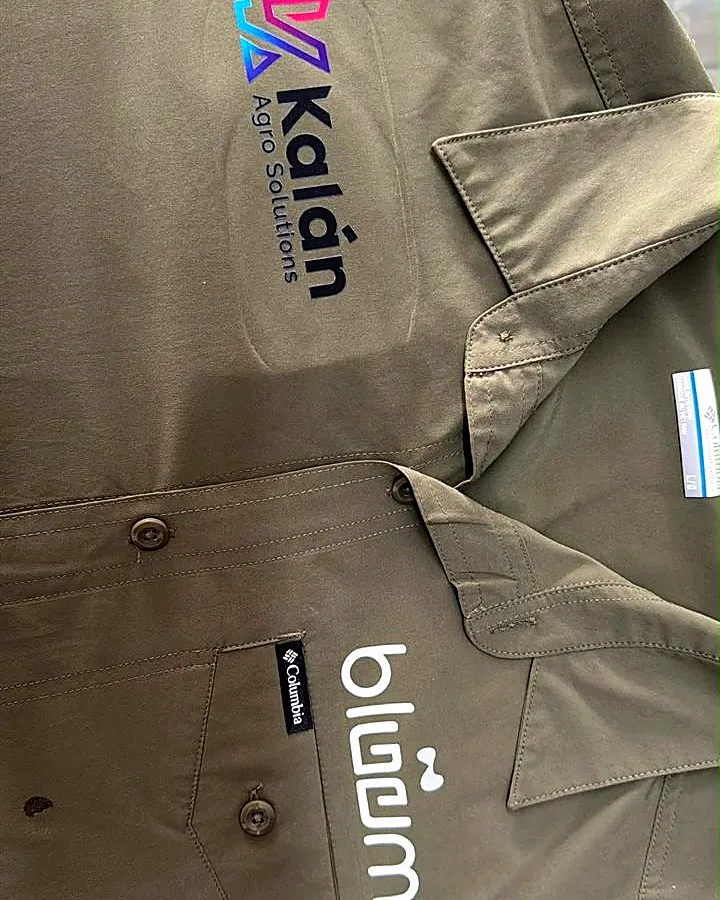
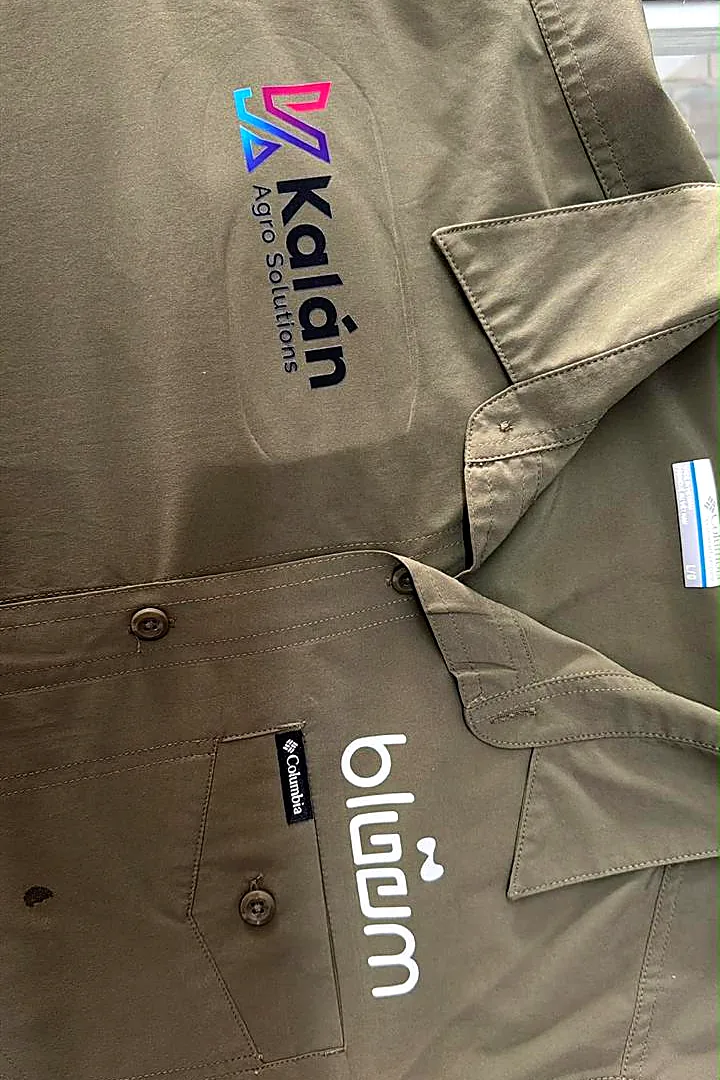
Trabajos: fotos casi completas en mosaico y las 15 publicadas
Claude-Session: https://claude.ai/code/session_01ENW6BeF7S524L59X4Un31Y

diff --git a/js/config.js b/js/config.js
@@ -219,10 +219,10 @@
     },
     {
       "id": "chalecos-bordados",
-      "estado": "PENDIENTE",
-      "permisoPublicar": false,
+      "estado": "aprobado",
+      "permisoPublicar": true,
       "permisoEmpresa": false,
-      "permisoImagen": false,
+      "permisoImagen": true,
       "empresa": "",
       "foto": "img/trabajos/chalecos-bordados.webp",
       "frase": "",
@@ -231,15 +231,16 @@
     },
     {
       "id": "polos-escolares",
-      "estado": "PENDIENTE",
-      "permisoPublicar": false,
+      "estado": "aprobado",
+      "permisoPublicar": true,
       "permisoEmpresa": false,
-      "permisoImagen": false,
+      "permisoImagen": true,
       "empresa": "",
       "foto": "img/trabajos/polos-escolares.webp",
       "frase": "",
       "producto": "Polos escolares",
-      "tecnica": "Bordado"
+      "tecnica": "Bordado",
+      "formato": "ancho"
     },
     {
       "id": "bolsas-serigrafia",
@@ -256,22 +257,23 @@
     },
     {
       "id": "camisas-bordadas",
-      "estado": "PENDIENTE",
-      "permisoPublicar": false,
+      "estado": "aprobado",
+      "permisoPublicar": true,
       "permisoEmpresa": false,
-      "permisoImagen": false,
+      "permisoImagen": true,
       "empresa": "",
       "foto": "img/trabajos/camisas-bordadas.webp",
       "frase": "",
       "producto": "Camisas de vestir",
-      "tecnica": "Bordado"
+      "tecnica": "Bordado",
+      "formato": "ancho"
     },
     {
       "id": "sudaderas-dtf",
-      "estado": "PENDIENTE",
-      "permisoPublicar": false,
+      "estado": "aprobado",
+      "permisoPublicar": true,
       "permisoEmpresa": false,
-      "permisoImagen": false,
+      "permisoImagen": true,
       "empresa": "",
       "foto": "img/trabajos/sudaderas-dtf.webp",
       "frase": "",
@@ -292,22 +294,23 @@
     },
     {
       "id": "playeras-trabajo",
-      "estado": "PENDIENTE",
-      "permisoPublicar": false,
+      "estado": "aprobado",
+      "permisoPublicar": true,
       "permisoEmpresa": false,
-      "permisoImagen": false,
+      "permisoImagen": true,
       "empresa": "",
       "foto": "img/trabajos/playeras-trabajo.webp",
       "frase": "",
       "producto": "Playeras de trabajo",
-      "tecnica": "Con cinta reflejante"
+      "tecnica": "Con cinta reflejante",
+      "formato": "ancho"
     },
     {
       "id": "playeras-logo",
-      "estado": "PENDIENTE",
-      "permisoPublicar": false,
+      "estado": "aprobado",
+      "permisoPublicar": true,
       "permisoEmpresa": false,
-      "permisoImagen": false,
+      "permisoImagen": true,
       "empresa": "",
       "foto": "img/trabajos/playeras-logo.webp",
       "frase": "",
@@ -316,10 +319,10 @@
     },
     {
       "id": "jerseys",
-      "estado": "PENDIENTE",
-      "permisoPublicar": false,
+      "estado": "aprobado",
+      "permisoPublicar": true,
       "permisoEmpresa": false,
-      "permisoImagen": false,
+      "permisoImagen": true,
       "empresa": "",
       "foto": "img/trabajos/jerseys.webp",
       "frase": "",
@@ -328,10 +331,10 @@
     },
     {
       "id": "camisas-trabajo",
-      "estado": "PENDIENTE",
-      "permisoPublicar": false,
+      "estado": "aprobado",
+      "permisoPublicar": true,
       "permisoEmpresa": false,
-      "permisoImagen": false,
+      "permisoImagen": true,
       "empresa": "",
       "foto": "img/trabajos/camisas-trabajo.webp",
       "frase": "",
@@ -340,10 +343,10 @@
     },
     {
       "id": "bolsas-tienda",
-      "estado": "PENDIENTE",
-      "permisoPublicar": false,
+      "estado": "aprobado",
+      "permisoPublicar": true,
       "permisoEmpresa": false,
-      "permisoImagen": false,
+      "permisoImagen": true,
       "empresa": "",
       "foto": "img/trabajos/bolsas-tienda.webp",
       "frase": "",
@@ -376,15 +379,16 @@
     },
     {
       "id": "bordado-maquina",
-      "estado": "PENDIENTE",
-      "permisoPublicar": false,
+      "estado": "aprobado",
+      "permisoPublicar": true,
       "permisoEmpresa": false,
-      "permisoImagen": false,
+      "permisoImagen": true,
       "empresa": "",
       "foto": "img/trabajos/bordado-maquina.webp",
       "frase": "",
       "producto": "Así bordamos tu logo",
-      "tecnica": "Bordado"
+      "tecnica": "Bordado",
+      "formato": "ancho"
     }
   ],
   "preciosDesde": [

diff --git a/js/temporada.js b/js/temporada.js
@@ -31,13 +31,12 @@ if(mostrar){
 const testimonios=testimoniosPublicables(C.clientesSatisfechos);
 $('#clientes-satisfechos').hidden=!testimonios.length;$('#navClientes').hidden=!testimonios.length;
 // galería de trabajos solo con fotos; producto y técnica van en el alt. La frase y la empresa (con permiso) salen como pie
-// las fotos anchas ocupan 2 columnas; una tarjeta para cotizar llena los huecos de la última fila (3 columnas en PC, 2 en celular)
-const lugares=testimonios.reduce((n,x)=>n+(x.formato==='ancho'?2:1),0),huecoPC=(3-lugares%3)%3,huecoCel=(2-lugares%2)%2;
+// fotos casi completas en columnas tipo mosaico (3 en PC, 2 en celular); la tarjeta para cotizar va al final
 const waTrabajos=`https://wa.me/${esc(String(C.whatsapp).replace(/\D/g,''))}?text=${esc(encodeURIComponent('Hola, vi sus trabajos en la página y quiero cotizar con mi logo.'))}`;
-// al inicio se ven 3 filas (9 lugares en PC, 8 en celular); el resto aparece con «Ver más trabajos»
-let suma=0;const extra=x=>{suma+=x.formato==='ancho'?2:1;return (suma>9?' trabajo-extra':'')+(suma>8?' trabajo-extra-cel':'');};
-const hayExtra=lugares>8;
-$('#listaTestimonios').innerHTML=testimonios.map(x=>{const ancho=x.formato==='ancho',frase=String(x.frase||'').trim(),empresa=x.permisoEmpresa===true&&x.empresa?x.empresa:'';return `<figure class="trabajo-real${ancho?' trabajo-real--ancho':''}${extra(x)}"><img src="${esc(x.foto)}" alt="${esc(x.producto+(x.tecnica?' · '+x.tecnica:'')+' hecho por ZAIN')}" width="${ancho?1280:720}" height="${ancho?720:900}" loading="lazy" decoding="async">${frase||empresa?`<figcaption>${frase?`<blockquote><p>“${esc(frase)}”</p></blockquote>`:''}${empresa?`<p><b>${esc(empresa)}</b></p>`:''}</figcaption>`:''}</figure>`;}).join('')
- +((huecoPC||huecoCel)?`<a class="trabajo-cta trabajo-cta--pc${huecoPC} trabajo-cta--cel${huecoCel}${hayExtra?' trabajo-extra trabajo-extra-cel':''}" href="${waTrabajos}" target="_blank" rel="noopener"><b>¿Tu logo aquí?</b><span>Cotiza tu pedido por WhatsApp</span><i aria-hidden="true">→</i></a>`:'');
+// al inicio se ven 9 fotos en PC y 8 en celular; el resto aparece con «Ver más trabajos»
+const extra=i=>(i>=9?' trabajo-extra':'')+(i>=8?' trabajo-extra-cel':'');
+const hayExtra=testimonios.length>8;
+$('#listaTestimonios').innerHTML=testimonios.map((x,i)=>{const ancho=x.formato==='ancho',frase=String(x.frase||'').trim(),empresa=x.permisoEmpresa===true&&x.empresa?x.empresa:'';return `<figure class="trabajo-real${ancho?' trabajo-real--ancho':''}${extra(i)}"><img src="${esc(x.foto)}" alt="${esc(x.producto+(x.tecnica?' · '+x.tecnica:'')+' hecho por ZAIN')}" width="${ancho?1280:720}" height="${ancho?720:1080}" loading="lazy" decoding="async">${frase||empresa?`<figcaption>${frase?`<blockquote><p>“${esc(frase)}”</p></blockquote>`:''}${empresa?`<p><b>${esc(empresa)}</b></p>`:''}</figcaption>`:''}</figure>`;}).join('')
+ +`<a class="trabajo-cta" href="${waTrabajos}" target="_blank" rel="noopener"><b>¿Tu logo aquí?</b><span>Cotiza tu pedido por WhatsApp</span><i aria-hidden="true">→</i></a>`;
 const verMas=$('#verMasTrabajos');
 if(verMas&&hayExtra){verMas.hidden=false;verMas.addEventListener('click',()=>{$('#listaTestimonios').classList.add('trabajos-reales--todos');verMas.hidden=true;});}

diff --git a/css/temporada.css b/css/temporada.css
@@ -17,16 +17,15 @@
 .posada-paquete__precios{display:grid;grid-template-columns:repeat(2,minmax(0,1fr));gap:20px;width:100%;margin:auto 0 24px}
 .posada-paquete__precios div{display:grid;gap:6px}.posada-paquete__precios span,.posada-paquete__iva{font-size:14px;color:var(--tenue)}
 .posada-paquete__precios strong{font-size:24px;letter-spacing:-.03em}.posada-paquete__iva{margin:-12px 0 16px}
-.trabajos-reales{display:grid;grid-template-columns:repeat(3,minmax(0,1fr));grid-auto-flow:dense;gap:24px;container-type:inline-size;--alto-foto:calc((100cqw - 48px) / 3 * 1.25)}
-.trabajo-real--ancho{grid-column:span 2}
-.trabajo-cta{display:flex;flex-direction:column;justify-content:flex-end;gap:8px;padding:28px;background:var(--cobalto,#2a3bff);color:#fff;text-decoration:none;min-height:var(--alto-foto,320px)}
+.trabajos-reales{columns:3;column-gap:24px}
+.trabajo-real,.trabajo-cta{break-inside:avoid;margin:0 0 24px}
+.trabajo-cta{display:flex;flex-direction:column;justify-content:flex-end;gap:8px;padding:28px;background:var(--cobalto,#2a3bff);color:#fff;text-decoration:none;min-height:240px}
 .trabajo-cta b{font-size:28px;line-height:1.1}.trabajo-cta span{font-size:16px;opacity:.85}.trabajo-cta i{font-style:normal;font-size:28px;margin-top:6px}
-.trabajo-cta--pc0{display:none}.trabajo-cta--pc2{grid-column:span 2}
 .trabajos-reales:not(.trabajos-reales--todos) .trabajo-extra{display:none}.trabajos-mas{display:flex;justify-content:center;margin-top:32px}.trabajos-mas:has(button[hidden]){display:none}
-.trabajo-real{margin:0;min-width:0}.trabajo-real img{display:block;width:100%;aspect-ratio:4/5;height:var(--alto-foto,auto);object-fit:cover;background:var(--papel)}.trabajo-real--ancho img{aspect-ratio:auto}
+.trabajo-real img{display:block;width:100%;height:auto;background:var(--papel)}
 .trabajo-real figcaption>p{margin:14px 0 0}.trabajo-real figcaption b{font-size:17px}
 .trabajo-real blockquote{margin:22px 0 18px;font-size:20px;line-height:1.4}.trabajo-real figcaption>p{display:grid;gap:4px}.trabajo-real figcaption span{font-size:14px;color:var(--tenue)}
-@media(max-width:760px){.posada-paquetes{grid-template-columns:1fr}.trabajos-reales{grid-template-columns:repeat(2,minmax(0,1fr));gap:14px;--alto-foto:calc((100cqw - 14px) / 2 * 1.25)}.trabajo-cta{display:flex;grid-column:auto;padding:18px}.trabajo-cta b{font-size:22px}.trabajo-cta--cel0{display:none}.trabajos-reales:not(.trabajos-reales--todos) .trabajo-extra-cel{display:none}.posada-banner{font-size:13px;gap:8px}.posada-paquete li{align-items:start}.posada-paquete li span{max-width:62%}.posada-paquete .btn{width:100%}}
+@media(max-width:760px){.posada-paquetes{grid-template-columns:1fr}.trabajos-reales{columns:2;column-gap:14px}.trabajo-real,.trabajo-cta{margin-bottom:14px}.trabajo-cta{padding:18px;min-height:180px}.trabajo-cta b{font-size:22px}.trabajos-reales:not(.trabajos-reales--todos) .trabajo-extra-cel{display:none}.posada-banner{font-size:13px;gap:8px}.posada-paquete li{align-items:start}.posada-paquete li span{max-width:62%}.posada-paquete .btn{width:100%}}
 @media(min-width:901px){.barra__nav{gap:18px;font-size:13px}}
 @media(hover:hover) and (pointer:fine){.posada-banner>a:hover{text-decoration:underline}}
 /* kits de posada con escalones de precio */

diff --git a/index.html b/index.html
@@ -26,7 +26,7 @@
   <link href="https://fonts.googleapis.com/css2?family=Archivo:wdth,wght@62..125,300..900&family=DM+Serif+Display&family=JetBrains+Mono:wght@400;500&family=Pacifico&display=swap" rel="stylesheet" />
   <link rel="stylesheet" href="css/zain.css?v=39" />
   <link rel="stylesheet" href="css/privacidad.css?v=3" />
-  <link rel="stylesheet" href="css/temporada.css?v=6" />
+  <link rel="stylesheet" href="css/temporada.css?v=7" />
   <script>
     /* animaciones solo si el visitante no pidió «reducir movimiento»; la entrada con el logo, una vez por visita */
     (function () {
@@ -473,7 +473,7 @@
     </symbol>
   </svg>
 
-  <script src="js/config.js?v=44"></script>
+  <script src="js/config.js?v=45"></script>
   <script src="js/catalogo-cargar.js?v=3"></script>
   <script src="js/medicion.js?v=5"></script>
   <script src="js/render.js?v=9"></script>
@@ -481,7 +481,7 @@
   <script src="js/archivos.js?v=1"></script>
   <script src="js/pedidos.js?v=6"></script>
   <script src="js/zain.js?v=55"></script>
-  <script type="module" src="js/temporada.js?v=6"></script>
+  <script type="module" src="js/temporada.js?v=7"></script>
 <script src="js/subir.js?v=3"></script>
 </body>
 </html>
